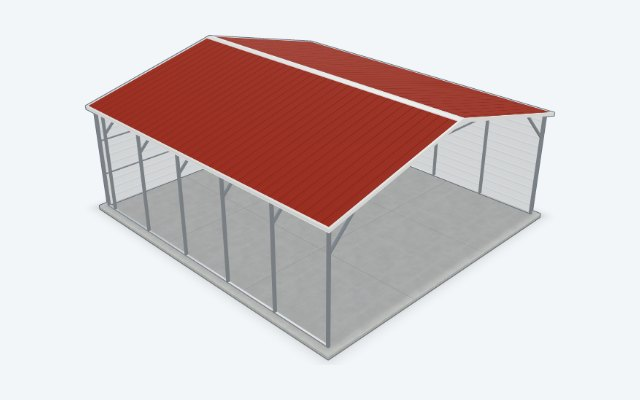
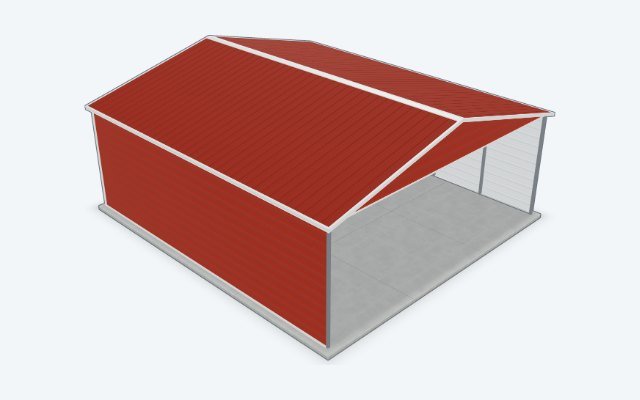
Design page: partially enclosed = open front (gable-only sheeting), back and both sides closed

diff --git a/configurator/web-customer/__tests__/guide.test.ts b/configurator/web-customer/__tests__/guide.test.ts
@@ -74,7 +74,7 @@ describe('guided starting sizes', () => {
     expect(normalizeDesign(d, false).walls).toEqual(carport.walls);
     // partially enclosed -> carport again: the walls come back open
     applyStyle(d, 'partial', carport.sizes[0]);
-    expect(normalizeDesign(d, false).walls.back).toBe('closed');
+    expect(normalizeDesign(d, false).walls).toEqual({ front: 'gableOnly', back: 'closed', left: 'closed', right: 'closed' });
     applyStyle(d, 'carport', carport.sizes[0]);
     expect(normalizeDesign(d, false).walls).toEqual(carport.walls);
   });

diff --git a/configurator/web-customer/src/model/guide.ts b/configurator/web-customer/src/model/guide.ts
@@ -51,9 +51,9 @@ export const STYLES: Array<{
   {
     key: 'partial',
     title: 'Partially enclosed',
-    blurb: 'A carport with the back and one side closed in',
+    blurb: 'Open front end (roof peak closed in); back and both sides closed in',
     type: 'carport',
-    walls: { front: 'open', back: 'closed', left: 'open', right: 'closed' },
+    walls: { front: 'gableOnly', back: 'closed', left: 'closed', right: 'closed' },
     leanTos: false,
     sizes: [ONE, TWO, THREE, TRAVEL, CLASS_A, BOAT, TRACTOR],
   },
